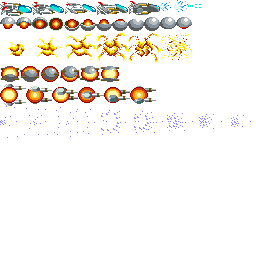
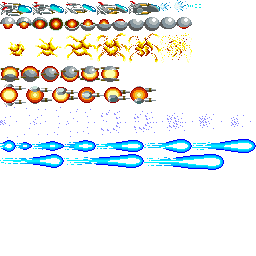
charged shot update

Changed region(s): [[0.0, 0.5312, 1.0, 0.6875]]

diff --git a/source/entity.c b/source/entity.c
@@ -41,6 +41,21 @@ static entity_t * entity_free(entity_t * entity)
     return list_dealloc(entities, entity);
 }
 
+static int configure_frame_info(frame_info_t ** ptr, template_t const * template, entity_t * entity)
+{
+    frame_info_t * info = *ptr;
+    if (NULL != info)
+    {
+        info->start_frame = template->start_frame;
+        info->nb_frames = template->nb_frames;
+        info->current_frame = template->current_frame;
+
+        entity->data = info;
+        return 1;
+    }
+    return 0;
+}
+
 static entity_t * spawn_entity(template_t const * template)
 {
     uint8_t start_frame = template->start_frame;
@@ -88,6 +103,37 @@ static entity_t * spawn_entity(template_t const * template)
     return result;
 }
 
+static const char * get_shot_type(uint8_t strength)
+{
+    if (strength <= 40)
+    {
+        return "shot";
+    }
+    return "powershot";
+}
+
+static entity_t * spawn_shot(charge_t * info)
+{
+    uint8_t strength = info->strength;
+    template_t * template = template_get(get_shot_type(strength));
+    if (NULL != template)
+    {
+        entity_t * result = spawn_entity(template);
+        if (NULL != result)
+        {
+            charge_t * info = malloc(sizeof(charge_t));
+            if (1 == configure_frame_info((frame_info_t **)&info, template, result))
+            {
+                info->strength = strength;
+                add_to_rendering(result->sprite);
+                return result;
+            }
+            entity_free(result);
+        }
+    }
+    return NULL;
+}
+
 static int init_ship_entity()
 {
     template_t * template = template_get("ship");
@@ -100,18 +146,11 @@ static int init_ship_entity()
         }
 
         frame_info_t * info = malloc(sizeof(frame_info_t));
-        if (NULL == info)
+        if (1 != configure_frame_info(&info, template, entity))
         {
             entity_free(entity);
             return 2;
         }
-
-        info->start_frame = template->start_frame;
-        info->nb_frames = template->nb_frames;
-        info->current_frame = template->current_frame;
-
-        entity->data = info;
-
         add_to_rendering(entity->sprite);
     }
     return 0;
@@ -129,19 +168,12 @@ static int init_charge_entity()
         }
 
         charge_t * info = malloc(sizeof(charge_t));
-        if (NULL == info)
+        if (1 != configure_frame_info((frame_info_t **)&info, template, entity))
         {
             entity_free(entity);
             return 2;
         }
-
-        info->start_frame = template->start_frame;
-        info->nb_frames = template->nb_frames;
-        info->current_frame = template->current_frame;
         info->strength = 0;
-
-        entity->data = info;
-
         charge = entity;
     }
     return 0;
@@ -214,7 +246,7 @@ void shutdown_entities()
 
 void entities_logic(rectangle_t const * camera, uint16_t dt)
 {
-    printf("\x1b[3;0Hentities: %3d, templates: %3d", entities_size, templates_size);
+    printf("\x1b[3;0H%3d entities, %3d templates, %3d beam", entities_size, templates_size, ((charge_t *)charge->data)->strength);
 
     logic_method_t * logic = NULL;
     entity_t * entity = NULL;
@@ -279,39 +311,28 @@ template_t * template_new(const char * name, uint16_t width, uint16_t height, ui
     return result;
 }
 
-entity_t * entity_spawn_shot()
-{
-    template_t * template = template_get("shot");
-    if (NULL != template)
-    {
-        entity_t * result = spawn_entity(template);
-        if (NULL != result)
-        {
-            add_to_rendering(result->sprite);
-            return result;
-        }
-    }
-    return NULL;
-}
-
 entity_t * entity_get_charge()
 {
     add_to_rendering(charge->sprite);
     return charge;
 }
 
-void entity_stop_charge()
+entity_t * entity_stop_charge()
 {
     sprite_t * sprite = charge->sprite;
 
     remove_from_animations(charge);
     remove_from_rendering(sprite);
 
+    charge_t * info = (charge_t *)charge->data;
+    entity_t * result = spawn_shot(info);
+
     // reset for next charge
-    frame_info_t * info = (frame_info_t *)charge->data;
+    info->strength = 0;
     if (0 != info->current_frame)
     {
         info->current_frame = 0;
         sprite->frame = get_frame(sprite->texture, info->start_frame);
     }
+    return result;
 }

diff --git a/source/animation.c b/source/animation.c
@@ -78,18 +78,29 @@ static void add(entity_t * entity, animation_type_t type, int start, int end, ui
     animation->elapsed = 0;
 }
 
-static void apply_to_target(animation_t const * animation)
+static void apply_to_target(animation_t const * animation, int new_value)
 {
-    int new_frame = animation->current;
+    int old_value = animation->current;
     entity_t * entity = (entity_t *)animation->entity;
 
-    frame_info_t * info = (frame_info_t *)entity->data;
-    info->current_frame = new_frame;
-    uint8_t start_frame = info->start_frame;
+    if (old_value != new_value)
+    {
+        frame_info_t * info = (frame_info_t *)entity->data;
+        info->current_frame = new_value;
+        uint8_t start_frame = info->start_frame;
 
-    sprite_t * sprite = entity->sprite;
-    sprite->frame = get_frame(sprite->texture, start_frame + new_frame);
+        sprite_t * sprite = entity->sprite;
+        sprite->frame = get_frame(sprite->texture, start_frame + new_value);
+    }
 
+    if (SHOT_CHARGE == animation->type)
+    {
+        charge_t * info = (charge_t *)entity->data;
+
+        uint8_t strength = info->strength;
+        info->strength = (strength + 2 < 100)
+            ? strength + 2 : 100;
+    }
 }
 
 static int on_animation_end(animation_t * animation)
@@ -106,11 +117,11 @@ static int on_animation_end(animation_t * animation)
 
 static int process_animation(animation_t * animation, uint16_t dt)
 {
-    int old_value = animation->current, new_value = 0;
+    int new_value = 0;
     int start_at = 0, end_at = animation->end;
     uint16_t elapsed = 0, duration = 0;
 
-    if (old_value != end_at)
+    if (animation->current != end_at)
     {
         elapsed = animation->elapsed;
         duration = animation->duration;
@@ -130,11 +141,7 @@ static int process_animation(animation_t * animation, uint16_t dt)
                 : end_at + (1 - progress) * (start_at - end_at);
         }
 
-        if (old_value != new_value)
-        {
-            animation->current = new_value;
-            apply_to_target(animation);
-        }
+        apply_to_target(animation, new_value);
 
         if (new_value != end_at)
         {
@@ -230,5 +237,18 @@ void animation_charge(entity_t * entity)
         info->current_frame,
         info->nb_frames - 1,
         600
+    );
+}
+
+void animation_shot(entity_t * entity)
+{
+    frame_info_t * info = (frame_info_t *)entity->data;
+
+    add(
+        entity,
+        SHOT_FIRED,
+        info->current_frame,
+        info->nb_frames - 1,
+        500
     );
 }

diff --git a/source/logic.c b/source/logic.c
@@ -80,12 +80,11 @@ int logic_hero(entity_t * entity, rectangle_t const * camera)
     }
     else if (released(KEY_A))
     {
-        entity_stop_charge();
-
-        entity_t * shot = entity_spawn_shot();
+        entity_t * shot = entity_stop_charge();
         if (NULL != shot)
         {
             STICK_TO_SHIP_NOSE(shot, entity)
+            animation_shot(shot);
         }
     }
     return 1;

diff --git a/source/entity.h b/source/entity.h
@@ -13,9 +13,7 @@ void sprites_update(rectangle_t const *);
 
 template_t * template_new(const char *, uint16_t, uint16_t, uint8_t, uint8_t, uint8_t, texture_t const *, const char *);
 
-entity_t * entity_spawn_shot();
-
 entity_t * entity_get_charge();
-void entity_stop_charge();
+entity_t * entity_stop_charge();
 
 #endif

diff --git a/source/animation.h b/source/animation.h
@@ -16,5 +16,6 @@ void animation_rollup(entity_t *);
 void animation_rolldown(entity_t *);
 void animation_rollback(entity_t *);
 void animation_charge(entity_t *);
+void animation_shot(entity_t *);
 
 #endif

diff --git a/source/structs.h b/source/structs.h
@@ -61,7 +61,8 @@ typedef enum {
     SHIP_ROLL_UP,
     SHIP_ROLL_DOWN,
     SHIP_ROLL_BACK,
-    SHOT_CHARGE
+    SHOT_CHARGE,
+    SHOT_FIRED
 } animation_type_t;
 
 typedef struct
